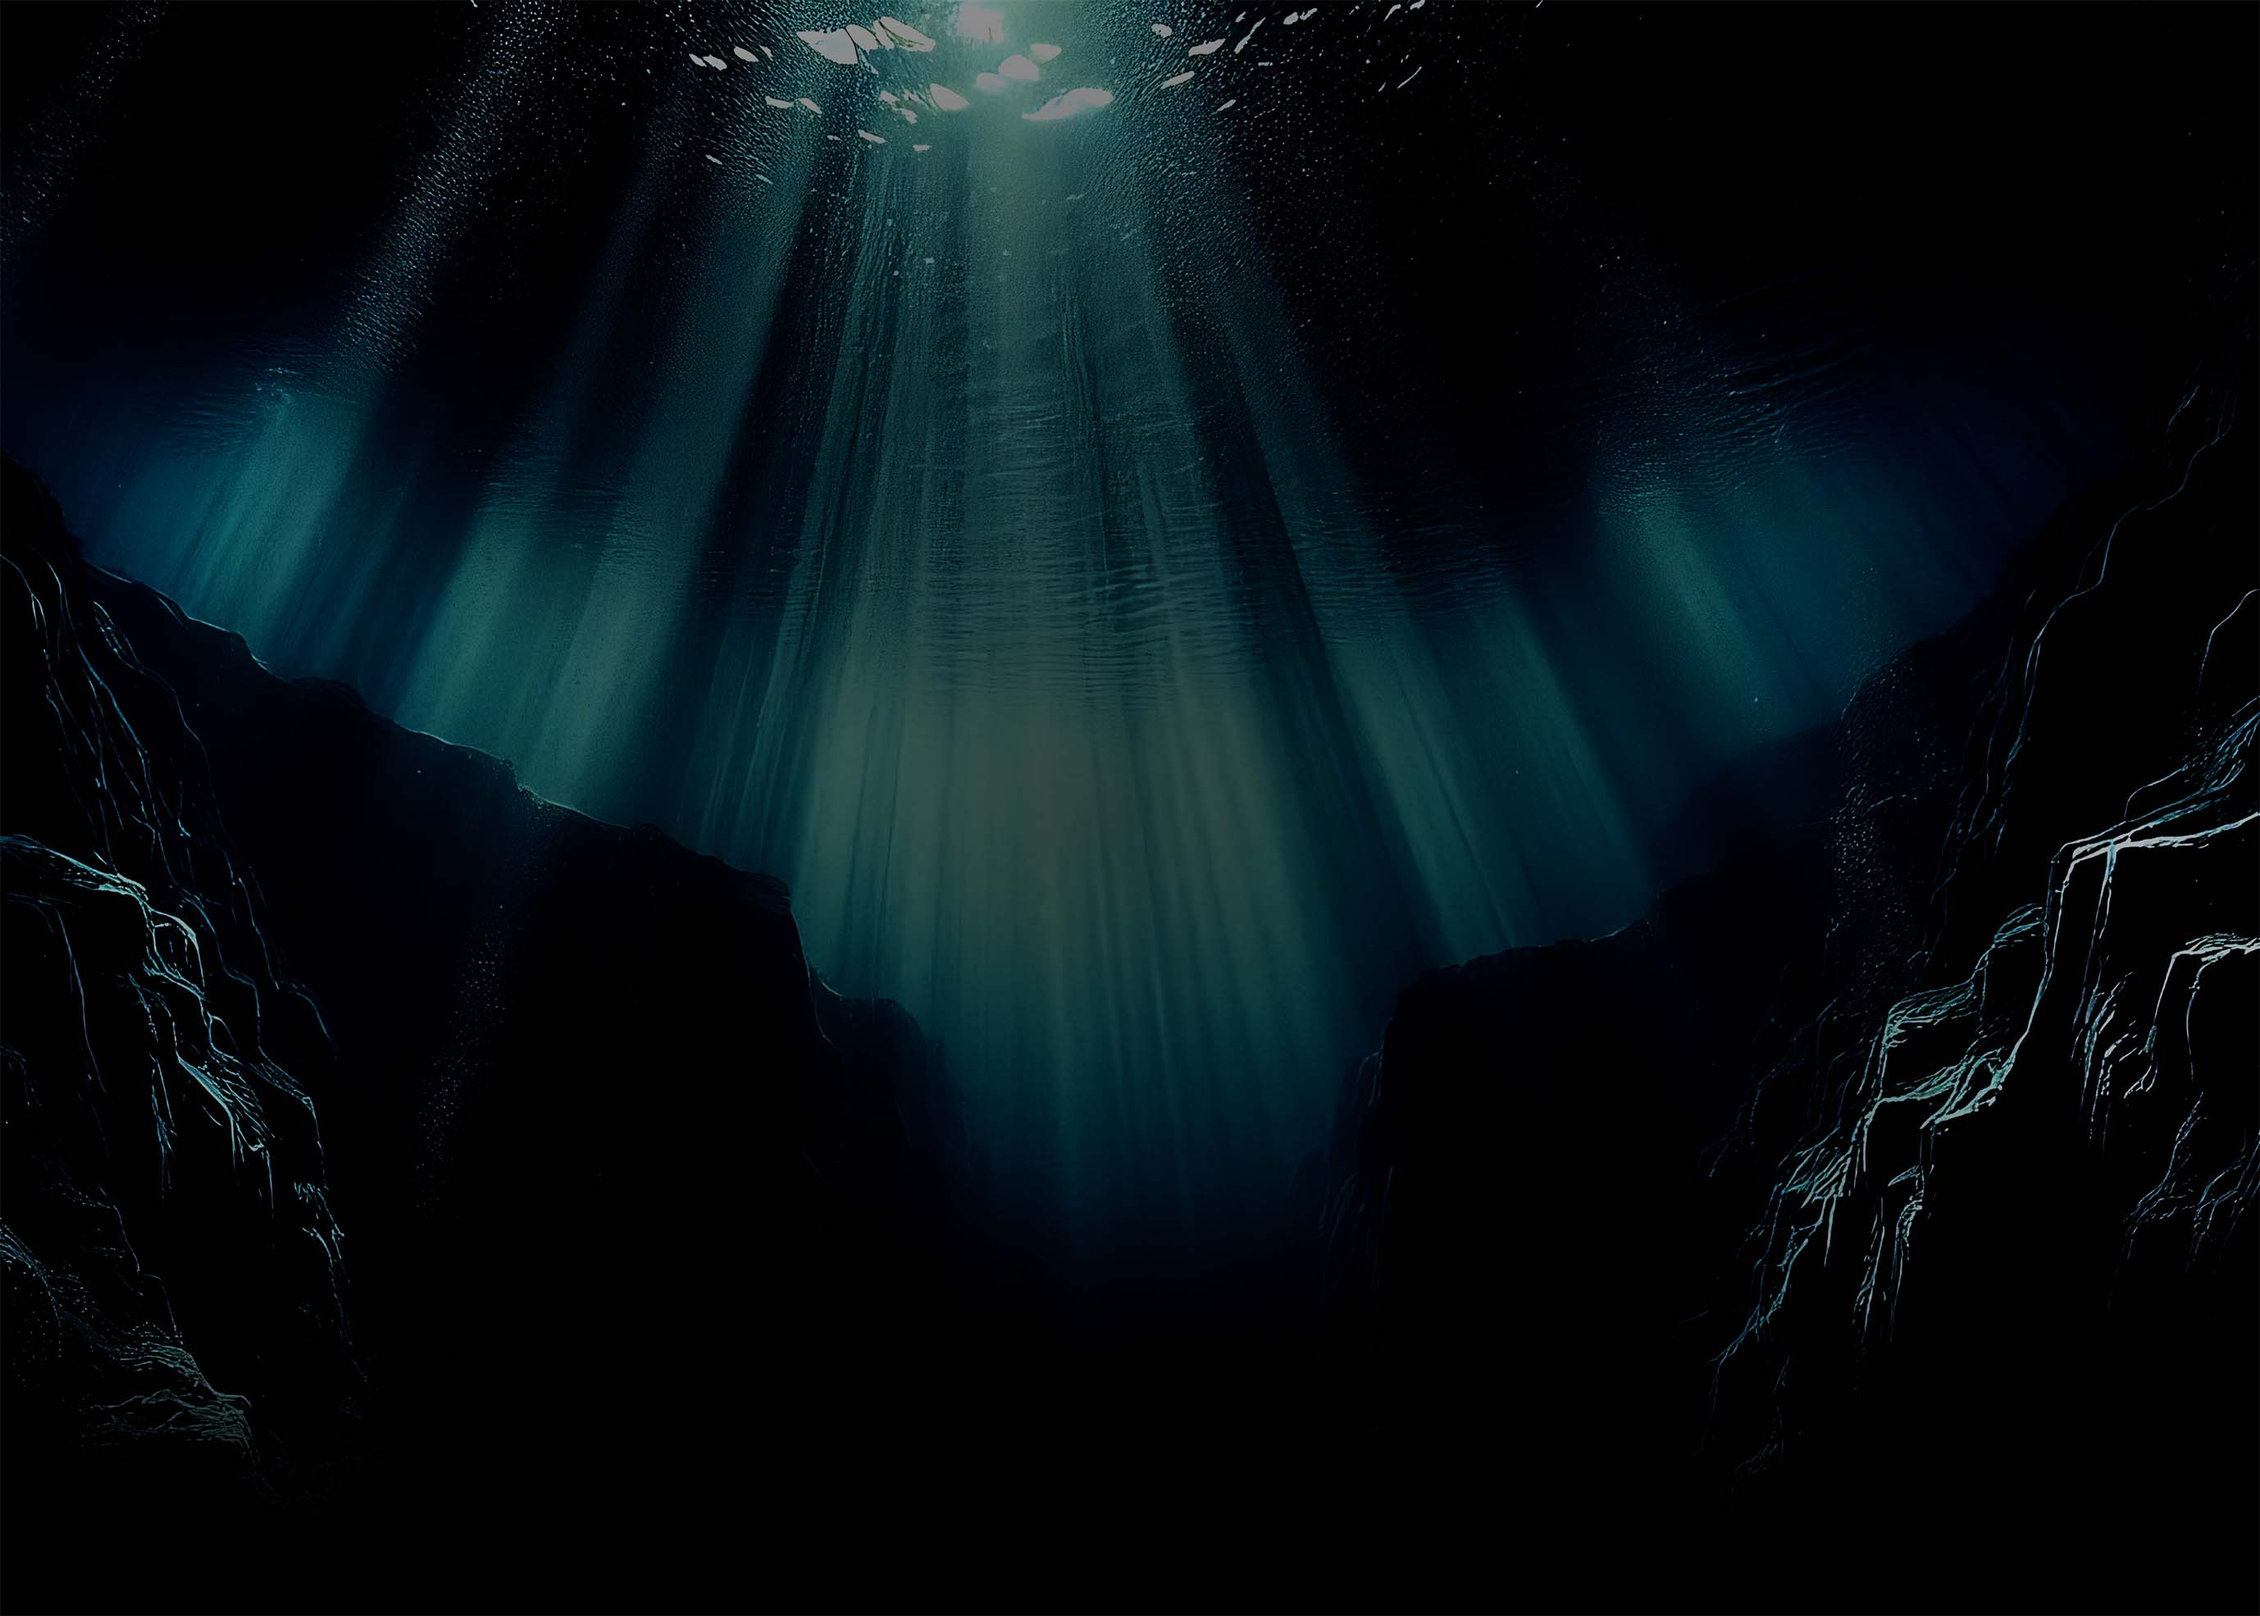
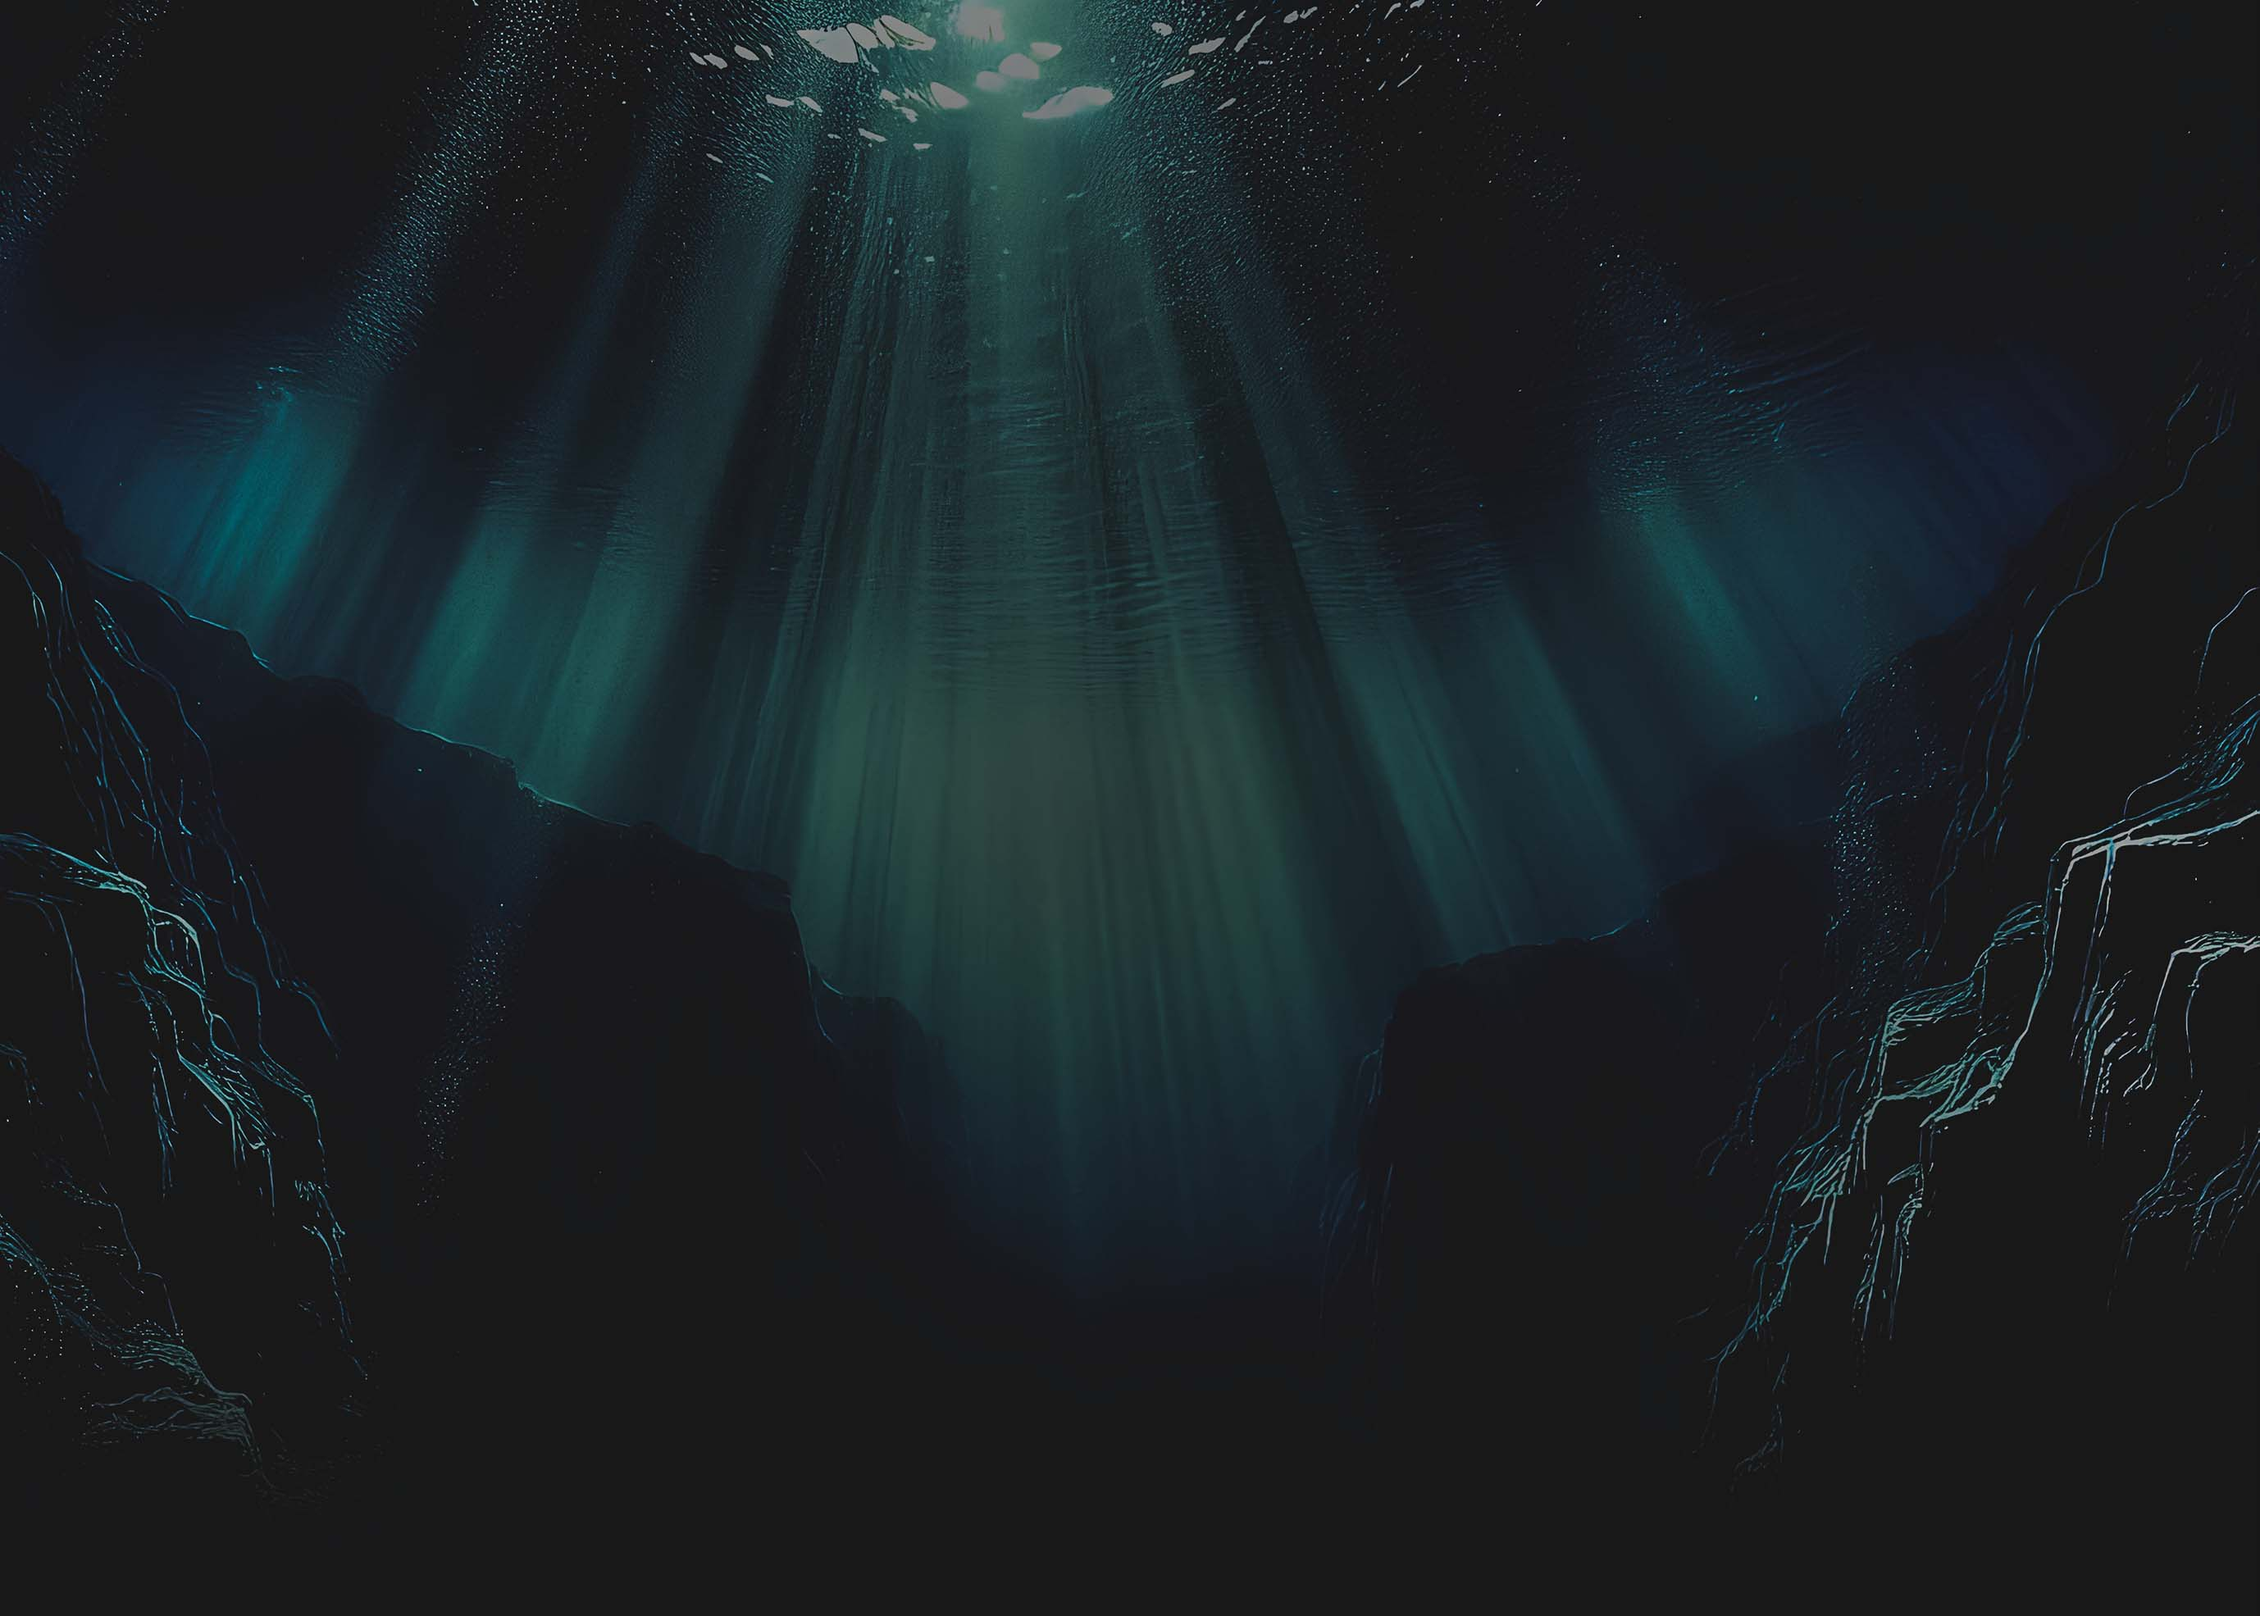
matte effect

diff --git a/packages/databyss-homepage/components/Page.js b/packages/databyss-homepage/components/Page.js
@@ -1,6 +1,8 @@
 import React from 'react'
 import { Helmet } from 'react-helmet'
+import { useMediaQuery } from 'react-responsive'
 import View from '@databyss-org/ui/primitives/View/View'
+import breakpoints from '@databyss-org/ui/theming/responsive'
 import { Hero } from './Hero/Hero'
 import { LongHero } from './Hero/LongHero'
 import HighlightedFeature from './Features/HighlightedFeature'
@@ -23,37 +25,52 @@ const componentMap = {
   DualBgFeature: Feature,
 }
 
-export const Page = ({ content, theme }) => (
-  <View
-    minHeight="100vh"
-    width="100%"
-    backgroundColor="#000000"
-    theme={theme}
-    css={{
-      backgroundImage:
-        content.backgroundImgSrc && `url(${content.backgroundImgSrc})`,
-      backgroundSize: '1800px 1288px',
-      backgroundRepeat: 'no-repeat',
-      backgroundPosition: 'top center',
-    }}
-  >
-    {content.sections.map((section, idx) => {
-      // console.log('[Page] component', section.component)
-      const Component = componentMap[section.component]
-      return (
-        <Component
-          key={`${idx}-${section.title}`}
-          {...section}
-          type={section.component === 'DualBgFeature' ? 'dualBg' : section.type}
-        />
-      )
-    })}
-    <Footer backgroundImgSrc={content.footerBackgroundImgSrc} />
-    <Helmet>
-      <title>{content.title}</title>
-      {(content.meta ?? []).map((metaJson) => (
-        <meta name={metaJson.name} content={metaJson.content} />
-      ))}
-    </Helmet>
-  </View>
-)
+export const Page = ({ content, theme }) => {
+  const is4k = useMediaQuery({ minWidth: breakpoints.largeDesktop })
+  const is2k = useMediaQuery({ minWidth: breakpoints.mediumDesktop })
+
+  let backgroundSize = '1800px 1288px'
+  if (is2k) {
+    backgroundSize = '1920px 1374px'
+  }
+  if (is4k) {
+    backgroundSize = '2800px 2002px'
+  }
+  return (
+    <View
+      minHeight="100vh"
+      width="100%"
+      theme={theme}
+      backgroundColor="#191919"
+      css={{
+        backgroundImage:
+          content.backgroundImgSrc && `url(${content.backgroundImgSrc})`,
+        backgroundSize,
+        backgroundRepeat: 'no-repeat',
+        backgroundPosition: 'top -50px center',
+        transition: 'background-size 0.5s',
+      }}
+    >
+      {content.sections.map((section, idx) => {
+        // console.log('[Page] component', section.component)
+        const Component = componentMap[section.component]
+        return (
+          <Component
+            key={`${idx}-${section.title}`}
+            {...section}
+            type={
+              section.component === 'DualBgFeature' ? 'dualBg' : section.type
+            }
+          />
+        )
+      })}
+      <Footer backgroundImgSrc={content.footerBackgroundImgSrc} />
+      <Helmet>
+        <title>{content.title}</title>
+        {(content.meta ?? []).map((metaJson) => (
+          <meta name={metaJson.name} content={metaJson.content} />
+        ))}
+      </Helmet>
+    </View>
+  )
+}

diff --git a/packages/databyss-homepage/components/Footer.js b/packages/databyss-homepage/components/Footer.js
@@ -11,8 +11,24 @@ import { useMediaQuery } from 'react-responsive'
 import { SectionView } from './SectionView'
 import footerContent from '../content/footerContent.json'
 
+const textShadowCss = {
+  textShadow: '#000000 1px 0 10px',
+}
+
 export const Footer = ({ backgroundImgSrc }) => {
   const isMobile = useMediaQuery({ maxWidth: breakpoints.mobile })
+
+  const is4k = useMediaQuery({ minWidth: breakpoints.largeDesktop })
+  const is2k = useMediaQuery({ minWidth: breakpoints.mediumDesktop })
+
+  let backgroundSize = '1800px 485px'
+  if (is2k) {
+    backgroundSize = '1920px 516px'
+  }
+  if (is4k) {
+    backgroundSize = '2800px 754px'
+  }
+
   return (
     <View
       theme={darkTheme}
@@ -23,7 +39,7 @@ export const Footer = ({ backgroundImgSrc }) => {
           backgroundImgSrc ??
           (footerContent[0].backgroundImgSrc &&
             `url(${footerContent[0].backgroundImgSrc})`),
-        backgroundSize: '1800px 485px',
+        backgroundSize,
         backgroundRepeat: 'no-repeat',
         backgroundPosition: 'bottom center',
         minHeight: '485px',
@@ -51,7 +67,7 @@ export const Footer = ({ backgroundImgSrc }) => {
           >
             <LogoSvg />
           </Icon>
-          <Text variant="uiTextSmall" color="text.1">
+          <Text variant="uiTextNormal" color="text.0" css={textShadowCss}>
             {footerContent[0].content}
           </Text>
         </View>
@@ -71,7 +87,12 @@ export const Footer = ({ backgroundImgSrc }) => {
               borderTop="1px solid"
               borderTopColor="text.4"
             >
-              <Text variant="uiTextHeading" color="text.0" mb="tiny">
+              <Text
+                variant="uiTextHeading"
+                color="text.0"
+                mb="tiny"
+                css={textShadowCss}
+              >
                 {section.title}
               </Text>
               {section.items.map((item) => (
@@ -84,7 +105,11 @@ export const Footer = ({ backgroundImgSrc }) => {
                   {...(item.className ? { className: item.className } : {})}
                   {...(item.target ? { target: item.target } : {})}
                 >
-                  <Text variant="uiTextSmall" color="text.1">
+                  <Text
+                    variant="uiTextNormal"
+                    color="text.0"
+                    css={textShadowCss}
+                  >
                     {item.name}
                   </Text>
                 </BaseControl>

diff --git a/packages/databyss-ui/theming/responsive.js b/packages/databyss-ui/theming/responsive.js
@@ -4,7 +4,7 @@ const breakpoints = [
   pxUnits(460),
   pxUnits(768),
   pxUnits(1024),
-  pxUnits(1400),
+  pxUnits(1600),
   pxUnits(1920),
 ]
 
